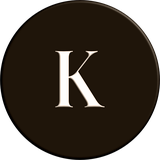
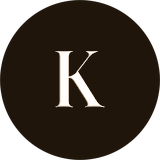
The monogram disc is flat; the K on it is still the artwork's
The emboss's dark rim along the foot of the disc read as a drop shadow at
36px on the welcome screen, and the owner asked for the shadow to go.

tint-mark.mjs flattens the disc's face to one grey before tinting — the
median of the face beside the letter, measured off the source rather than
typed — and leaves every pixel of the letter as drawn, anti-aliasing
included. The letter is found by a radius and a threshold together: the
foot's shadow is as dark as the K, and a threshold alone would have kept
the thing it was there to remove. Nothing here is a drawn circle, and
pnpm check:marks still pins the committed discs to what the script makes.

Verified: pnpm check (260 tests, design, springs, marks); sweep 43 routes ×
4 widths × 2 themes clean; flows 18; keyboard 1195 stops on 66 screens;
motion; CSP 18 routes.

Claude-Session: https://claude.ai/code/session_0169KRSSjajEYunkVuigzQ4Y

diff --git a/CLAUDE.md b/CLAUDE.md
@@ -38,6 +38,15 @@ and the old wordmark only escaped that by shipping as outlines rather than as ty
   `--mark-disc` picks one by theme, so only the used one is fetched, and `tone="ink"` /
   `tone="paper"` pins one where the surface decides instead (the virtual card is always
   dark, so it always takes the paper disc). Do not replace it with a drawn circle.
+- **The disc is flat now, and the K on it is still the artwork's.** The emboss's dark rim
+  along the foot of the disc read as a drop shadow at 36px on the welcome screen, and the
+  owner pointed at it: « I don't want the shadow ». `tint-mark.mjs` flattens the *face* to
+  one grey before tinting — the median of the face beside the letter, measured off the source
+  rather than typed — and leaves every pixel of the **letter** exactly as drawn, anti-aliasing
+  included. The letter is found by a radius *and* a threshold, because the foot's shadow is as
+  dark as the K and a threshold alone would have kept the thing it was there to remove. The
+  rule above still holds: nothing here is a drawn circle, the K is the sheet's own, and
+  `pnpm check:marks` still pins the committed discs to what the script makes.
 - **The mark gets clear space, not paragraph spacing.** A logo set with the same air as a
   line of body text reads as crowded. Any screen that pairs the wordmark with a heading
   gives it `.mark-clear` — at least its own height before the next thing starts. Check the
